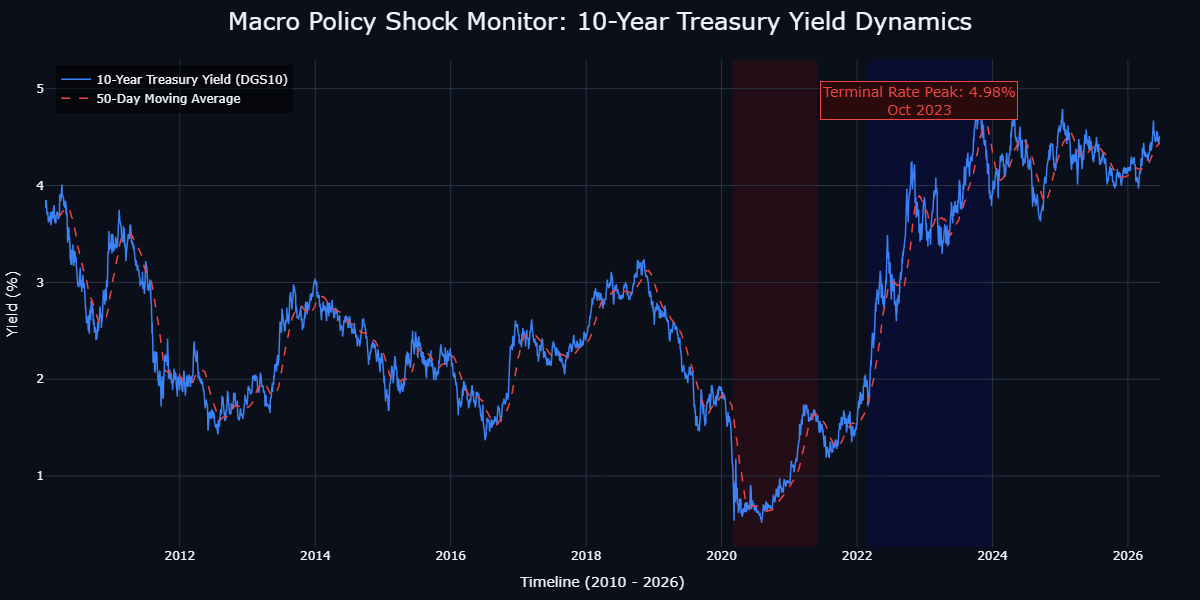
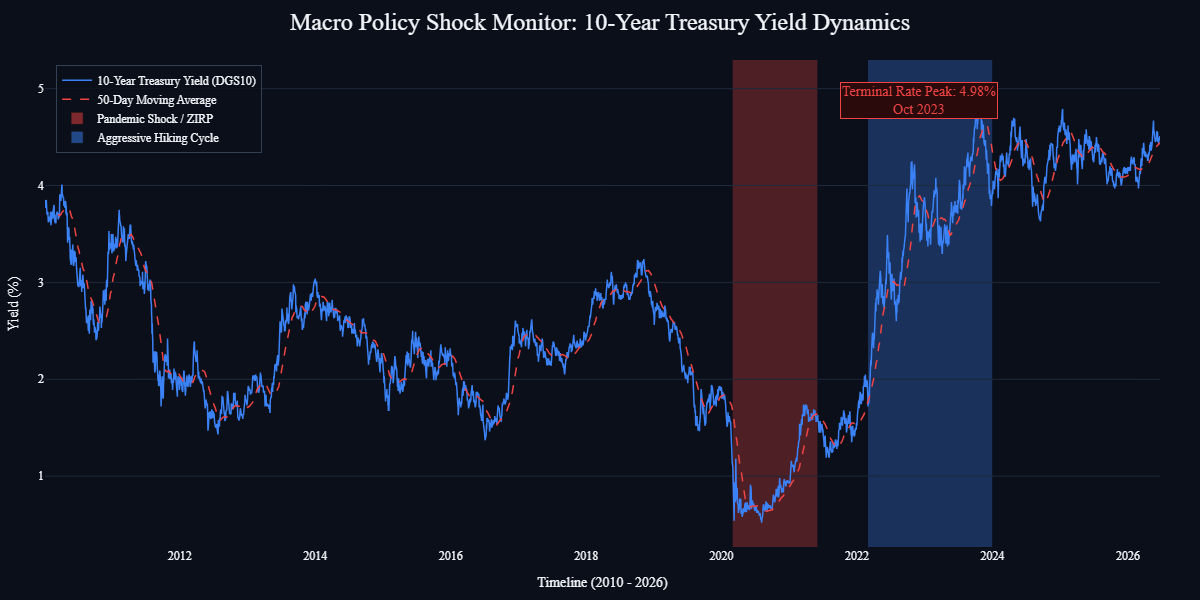
Continuous audit: Polish HTML carousel layout strictness and Plotly aesthetics

diff --git a/docs/carousel.html b/docs/carousel.html
@@ -1,0 +1,269 @@
+<!DOCTYPE html>
+<html lang="en">
+<head>
+    <meta charset="UTF-8">
+    <meta name="viewport" content="width=device-width, initial-scale=1.0">
+    <title>CBCI LinkedIn Carousel</title>
+    <link href="https://fonts.googleapis.com/css2?family=Inter:wght@400;600;800&display=swap" rel="stylesheet">
+    <style>
+        @page {
+            size: 1080px 1350px;
+            margin: 0;
+        }
+        body {
+            margin: 0;
+            padding: 0;
+            background-color: #000;
+            font-family: 'Inter', sans-serif;
+            -webkit-print-color-adjust: exact !important;
+            print-color-adjust: exact !important;
+        }
+        .slide {
+            width: 1080px;
+            height: 1350px;
+            box-sizing: border-box;
+            background: linear-gradient(135deg, #0B0F19 0%, #0f172a 100%);
+            color: #F8FAFC;
+            page-break-after: always;
+            position: relative;
+            overflow: hidden;
+            padding: 60px 80px;
+            display: flex;
+            flex-direction: column;
+        }
+        .slide::after {
+            content: "Central Bank Credibility Index (CBCI) • Swipe ➔";
+            position: absolute;
+            bottom: 50px;
+            left: 80px;
+            color: #475569;
+            font-weight: 600;
+            font-size: 26px;
+            letter-spacing: 1px;
+        }
+        .slide.last-slide::after {
+            content: "Central Bank Credibility Index (CBCI)";
+        }
+        
+        .tag {
+            font-size: 34px;
+            font-weight: 800;
+            color: #3B82F6;
+            letter-spacing: 2px;
+            text-transform: uppercase;
+            margin-bottom: 20px;
+        }
+        .tag.green { color: #10B981; }
+        
+        h1 {
+            font-size: 95px;
+            font-weight: 800;
+            margin: 0 0 40px 0;
+            line-height: 1.1;
+            background: -webkit-linear-gradient(0deg, #F8FAFC, #94A3B8);
+            -webkit-background-clip: text;
+            -webkit-text-fill-color: transparent;
+        }
+        h2 {
+            font-size: 75px;
+            font-weight: 800;
+            margin: 0 0 50px 0;
+            line-height: 1.1;
+        }
+        p {
+            font-size: 34px;
+            line-height: 1.6;
+            color: #94A3B8;
+            margin: 0 0 40px 0;
+        }
+        .highlight {
+            color: #F8FAFC;
+            font-weight: 600;
+        }
+        .card-container {
+            display: flex;
+            flex-direction: column;
+            gap: 25px;
+            margin-top: 20px;
+        }
+        .card-grid {
+            display: grid;
+            grid-template-columns: 1fr 1fr;
+            gap: 25px;
+            margin-top: 20px;
+        }
+        .info-card {
+            background: rgba(30, 41, 59, 0.5);
+            border: 2px solid rgba(51, 65, 85, 0.5);
+            border-radius: 24px;
+            padding: 40px;
+        }
+        .info-card h3 {
+            font-size: 34px;
+            margin: 0 0 10px 0;
+            color: #F8FAFC;
+        }
+        .info-card p {
+            font-size: 28px;
+            margin: 0;
+            color: #cbd5e1;
+            line-height: 1.5;
+        }
+        .chart-img {
+            width: 100%;
+            border-radius: 20px;
+            border: 2px solid #334155;
+            box-shadow: 0 20px 40px rgba(0,0,0,0.5);
+            margin-top: 20px;
+        }
+        .takeaway {
+            display: flex;
+            align-items: flex-start;
+            margin-bottom: 30px;
+        }
+        .takeaway-icon {
+            font-size: 36px;
+            margin-right: 20px;
+            margin-top: 5px;
+        }
+        .quote {
+            font-size: 42px;
+            font-style: italic;
+            font-weight: 600;
+            color: #3B82F6;
+            text-align: center;
+            margin-top: auto;
+            margin-bottom: 60px;
+            padding: 40px;
+            border-top: 1px solid #334155;
+            border-bottom: 1px solid #334155;
+        }
+    </style>
+</head>
+<body>
+
+    <!-- SLIDE 1 -->
+    <div class="slide">
+        <div class="tag">Project Overview</div>
+        <h1>The Central Bank<br>Credibility Index</h1>
+        <p style="margin-top: 40px;">The 2022 global inflation crisis served as a watershed moment for modern monetary policy.</p>
+        <p>The <span class="highlight">"Transitory Inflation"</span> narrative was a strategic miscalculation that led to a total breakdown in forward guidance, stripping markets of their primary navigational tools.</p>
+        <p>To mitigate these risks, the CBCI was developed as a <span class="highlight">rigorous, data-driven framework</span> to quantify institutional trust and extract asymmetric insights from policy behavior.</p>
+    </div>
+
+    <!-- SLIDE 2 -->
+    <div class="slide">
+        <div class="tag green">01 / The Framework</div>
+        <h2>The 5-Pillar Model</h2>
+        <p>A definitive 0–100 score insulated from subjective bias:</p>
+        
+        <div class="card-grid">
+            <div class="info-card">
+                <h3 style="color: #10B981;">1. Inflation Anchoring (30%)</h3>
+                <p>Absolute deviation of headline inflation from official targets over a 12-month window.</p>
+            </div>
+            <div class="info-card">
+                <h3 style="color: #3B82F6;">2. Policy Consistency (20%)</h3>
+                <p>Evaluates NLP alignment between communication (FinBERT) and subsequent interest rate moves.</p>
+            </div>
+            <div class="info-card">
+                <h3 style="color: #A855F7;">3. Forecast Accuracy (20%)</h3>
+                <p>Quantifies Mean Absolute Error (MAE) of central bank economic projections.</p>
+            </div>
+            <div class="info-card">
+                <h3 style="color: #C084FC;">4. Bond Confidence (15%)</h3>
+                <p>Tracks rolling volatility in sovereign bonds (FRED DGS10).</p>
+            </div>
+            <div class="info-card" style="grid-column: span 2;">
+                <h3 style="color: #FF8A65;">5. FX Stability (15%)</h3>
+                <p>Evaluates currency pair safe-haven behavior during market stress.</p>
+            </div>
+        </div>
+    </div>
+
+    <!-- SLIDE 3 -->
+    <div class="slide">
+        <div class="tag">02 / Architecture</div>
+        <h2>Data Engineering</h2>
+        <p>A strategic shift from fragile manual spreadsheets to an automated, high-integrity pipeline.</p>
+        
+        <div class="card-container" style="margin-top: 40px;">
+            <div class="info-card">
+                <h3>⚙️ Python & Pandas (ETL)</h3>
+                <p>Programmatically ingesting over 4,200 days of raw data from the FRED API. Eliminates human error.</p>
+            </div>
+            <div class="info-card">
+                <h3>🗄️ Relational Integrity (PostgreSQL)</h3>
+                <p>The single source of truth. Enforcing strict data types and managing exact FOMC meeting metadata.</p>
+            </div>
+            <div class="info-card">
+                <h3>📊 Code-as-UI (Streamlit)</h3>
+                <p>Moving away from unversioned drag-and-drop tools to fully auditable, Git-versioned visualization layers.</p>
+            </div>
+        </div>
+    </div>
+
+    <!-- SLIDE 4 -->
+    <div class="slide">
+        <div class="tag green">03 / The Innovation</div>
+        <h2>Objective NLP Sentiment</h2>
+        <p>Converting unstructured central bank communications into quantitative data points.</p>
+        
+        <div class="card-container" style="margin-top: 40px;">
+            <div class="info-card">
+                <h3>🧠 The FinBERT Model</h3>
+                <p>Specifically trained for financial contexts. FinBERT parses thousands of FOMC and ECB policy statements to generate a precise hawkish-dovish scale.</p>
+            </div>
+            <div class="info-card" style="border-color: rgba(239, 68, 68, 0.5);">
+                <h3 style="color: #EF4444;">⚡ The 'Policy Shock' Metric</h3>
+                <p>The model heavily penalizes central banks when dovish communication is immediately followed by hawkish actions. These shocks are a primary driver of catastrophic bond market volatility.</p>
+            </div>
+        </div>
+    </div>
+
+    <!-- SLIDE 5 -->
+    <div class="slide">
+        <div class="tag">04 / The Outcome</div>
+        <h2 style="margin-bottom: 20px;">Global Leaderboard</h2>
+        <img src="temp_images/chart1_stacked.png" class="chart-img" alt="Leaderboard Chart">
+        
+        <div class="card-container" style="margin-top: 40px;">
+            <div class="info-card" style="padding: 30px;">
+                <h3 style="font-size: 34px;">🏆 The Gold Standard: SNB (89.4)</h3>
+                <p style="font-size: 28px;">Maintained extreme FX stability and tight inflation anchoring throughout the 2020s.</p>
+            </div>
+            <div class="info-card" style="padding: 30px; border-color: rgba(239, 68, 68, 0.3);">
+                <h3 style="font-size: 34px; color: #EF4444;">⚠️ Critical Laggard: PBOC (59.8)</h3>
+                <p style="font-size: 28px;">Penalized for lack of transparent forward guidance and policy consistency.</p>
+            </div>
+        </div>
+    </div>
+
+    <!-- SLIDE 6 -->
+    <div class="slide last-slide">
+        <div class="tag green">05 / Macro Shock Monitor</div>
+        <h2 style="margin-bottom: 20px;">Treasury Yield Dynamics</h2>
+        <img src="temp_images/chart2_macro.png" class="chart-img" alt="Macro Chart">
+        
+        <h3 style="font-size: 44px; margin: 50px 0 30px 0; color: #F8FAFC;">Audit & Oversight Takeaways</h3>
+        
+        <div class="takeaway">
+            <div class="takeaway-icon">🛡️</div>
+            <p style="font-size: 32px; margin:0;"><span class="highlight">Engineering Over Manual Logic:</span> Transitioning to Python/SQL is essential for mitigating model risk.</p>
+        </div>
+        <div class="takeaway">
+            <div class="takeaway-icon">📈</div>
+            <p style="font-size: 32px; margin:0;"><span class="highlight">Sentiment as a Hard Metric:</span> NLP models turn rhetoric into tradable, measurable signals.</p>
+        </div>
+        <div class="takeaway">
+            <div class="takeaway-icon">⚖️</div>
+            <p style="font-size: 32px; margin:0;"><span class="highlight">Consistency is the Asset:</span> Credibility is the alignment of words, forecasts, and actions.</p>
+        </div>
+
+        <div class="quote">
+            "In the modern financial landscape, trust is the most volatile asset of all. Rebuilding market trust takes years, but losing it takes only one missed forecast."
+        </div>
+    </div>
+
+</body>
+</html>

diff --git a/src/visualization/generate_whitepaper_carousel.py b/src/visualization/generate_whitepaper_carousel.py
@@ -52,8 +52,11 @@ for i, row in df_scores_sorted.iterrows():
     )
 
 fig1.update_layout(
-    title=dict(text="Global Central Bank Credibility Index (CBCI) - Methodological Breakdown", font=dict(size=24), x=0.5),
+    title=dict(text="Global Central Bank Credibility Index (CBCI) - Methodological Breakdown", font=dict(size=24, family='Inter'), x=0.5),
     barmode='stack',
+    font=dict(family='Inter'),
+    xaxis=dict(showgrid=False, zeroline=False, showticklabels=False),
+    yaxis=dict(showgrid=False),
     margin=dict(l=40, r=40, t=60, b=100),
     paper_bgcolor='#0B0F19', plot_bgcolor='#0B0F19',
     legend=dict(orientation="h", yanchor="bottom", y=-0.2, xanchor="center", x=0.5, font=dict(size=14))
@@ -71,9 +74,11 @@ fig2 = go.Figure()
 fig2.add_trace(go.Scatter(x=df_macro['date'], y=df_macro['value'], mode='lines', name='10-Year Treasury Yield (DGS10)', line=dict(color='#3B82F6', width=1.5)))
 fig2.add_trace(go.Scatter(x=df_macro['date'], y=df_macro['SMA_50'], mode='lines', name='50-Day Moving Average', line=dict(color='#EF4444', width=1.5, dash='dash')))
 
-# Shaded regions
-fig2.add_vrect(x0="2020-03-01", x1="2021-06-01", fillcolor="red", opacity=0.1, layer="below", line_width=0, name='Pandemic Shock / ZIRP')
-fig2.add_vrect(x0="2022-03-01", x1="2023-12-31", fillcolor="blue", opacity=0.1, layer="below", line_width=0, name='Aggressive Hiking Cycle')
+fig2.add_vrect(x0="2020-03-01", x1="2021-06-01", fillcolor="#EF4444", opacity=0.3, layer="below", line_width=0)
+fig2.add_vrect(x0="2022-03-01", x1="2023-12-31", fillcolor="#3B82F6", opacity=0.3, layer="below", line_width=0)
+# Dummy traces for legend
+fig2.add_trace(go.Bar(x=[None], y=[None], name='Pandemic Shock / ZIRP', marker_color='rgba(239, 68, 68, 0.5)'))
+fig2.add_trace(go.Bar(x=[None], y=[None], name='Aggressive Hiking Cycle', marker_color='rgba(59, 130, 246, 0.5)'))
 
 # Annotation for Peak
 peak_row = df_macro.loc[df_macro['value'].idxmax()]
@@ -85,11 +90,14 @@ fig2.add_annotation(x=peak_date_str, y=peak_row['value'], text="Terminal Rate Pe
 fig2.add_trace(go.Scatter(x=[peak_date_str], y=[peak_row['value']], mode='markers', name='', showlegend=False, marker=dict(color='#EF4444', size=10)))
 
 fig2.update_layout(
-    title=dict(text="Macro Policy Shock Monitor: 10-Year Treasury Yield Dynamics", font=dict(size=24), x=0.5),
+    title=dict(text="Macro Policy Shock Monitor: 10-Year Treasury Yield Dynamics", font=dict(size=24, family='Inter'), x=0.5),
+    font=dict(family='Inter'),
     yaxis_title="Yield (%)", xaxis_title="Timeline (2010 - 2026)",
+    xaxis=dict(showgrid=False),
+    yaxis=dict(gridcolor='#1E293B'),
     margin=dict(l=40, r=40, t=60, b=40),
     paper_bgcolor='#0B0F19', plot_bgcolor='#0B0F19',
-    legend=dict(x=0.01, y=0.99, bgcolor='rgba(0,0,0,0.5)')
+    legend=dict(x=0.01, y=0.99, bgcolor='rgba(11,15,25,0.8)', bordercolor='#334155', borderwidth=1)
 )
 chart2_path = os.path.join(img_dir, 'chart2_macro.png')
 fig2.write_image(chart2_path, width=1200, height=600)